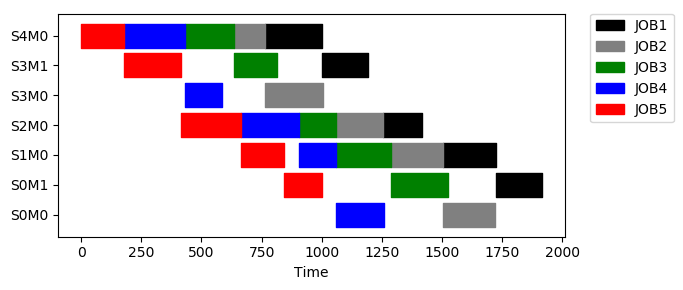
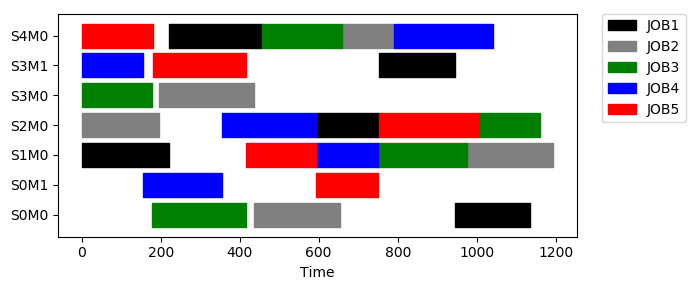
ILS

diff --git a/Cplex Project/hosp.cpp b/Cplex Project/hosp.cpp
@@ -687,7 +687,7 @@ list<HOSP::operacao> HOSP::MIH() {
 	return PI;
 }
 
-double HOSP::BICH_makespan(list<operacao> PI) {
+double HOSP::makespan(list<operacao> PI) {
 	double **M_tempo, *N_tempo;
 	N_tempo = new double[n];
 	M_tempo = new double*[l];
@@ -808,7 +808,7 @@ list<HOSP::operacao> HOSP::BICH() {
 				auxiliar.push_back(elemento);
 			operacao aaa(j, k_min, m_min);
 			auxiliar.push_back(aaa);
-			BICH_VET[j] = BICH_makespan(auxiliar) + BICH_LB(j, k_min, Paux);
+			BICH_VET[j] = makespan(auxiliar) + BICH_LB(j, k_min, Paux);
 
 		}
 
@@ -854,10 +854,10 @@ list<HOSP::operacao> HOSP::BICH() {
 	return PI;
 }
 
-void HOSP::imprimir_resultados_heuristica(double time, double makespan){
+void HOSP::imprimir_resultados_heuristica(double time, double _makespan){
 	ofstream resultados("resultado.txt", fstream::app);
 
-	resultados << "\t" << makespan << "\t" << time;
+	resultados << "\t" << _makespan << "\t" << time;
 
 	resultados.close();
 
@@ -893,6 +893,7 @@ void HOSP::imprimir_gantt_operacao(list<operacao> lista) {
 }
 
 list<HOSP::operacao> HOSP::VETOR_PARA_OPERACAO(int *vetor) {
+
 	list<operacao> retornada;
 	double **M_tempo, *N_tempo;
 	N_tempo = new double[n];
@@ -928,16 +929,217 @@ list<HOSP::operacao> HOSP::VETOR_PARA_OPERACAO(int *vetor) {
 	return retornada;
 }
 
+int * HOSP::OPERACAO_PARA_VETOR(list<operacao> PI) {
+	int *vetor = new int[n*l];
+	int  i = 0;
+	for (auto elemento : PI) {
+		vetor[i] = elemento.job * l + elemento.stage;
+		i++;
+	}
+
+	return vetor;
+}
+
+
 list<HOSP::operacao> HOSP::ILS() {
 	int *SOLUCAO = new int[n*l];
+	int *SOLUCAO1 = new int[n*l];
+	int *SOLUCAO2 = new int[n*l];
+	int *SOLUCAO3 = new int[n*l];
+	int *BEST = new int[n*l];
+	SOLUCAO = OPERACAO_PARA_VETOR(MIH());
 
 	for (int i = 0; i < n*l; i++)
-		SOLUCAO[i] = n*l - i - 1;
+		BEST[i] = SOLUCAO[i];
+	
 
-	list<operacao> teste = VETOR_PARA_OPERACAO(SOLUCAO);
+	double TEMPERATURA = 100;
+	int seed = 1;
+	double melhor = makespan(VETOR_PARA_OPERACAO(SOLUCAO));
+	bool melhorou = true;
+	int iteracao = 1;
+	srand(seed);
+	do
+	{
+		cout <<"ILS - ITERACAO - " << iteracao++ << endl;
+		SOLUCAO1 = OPT2_neighborhood(SOLUCAO);
 
-	imprimir_gantt_operacao(teste);
+		double makespan_neightbor1 = makespan(VETOR_PARA_OPERACAO(SOLUCAO1));
+
+		SOLUCAO2 = INSERT_neighbourhood(SOLUCAO);
+
+		double makespan_neightbor2 = makespan(VETOR_PARA_OPERACAO(SOLUCAO2));
+
+		SOLUCAO3 = INSERT_neighbourhood(SOLUCAO);
+
+		double makespan_neightbor3 = makespan(VETOR_PARA_OPERACAO(SOLUCAO3));
+
+		double makespan_neightbor;
+		if (makespan_neightbor1 < makespan_neightbor2 && makespan_neightbor1 < makespan_neightbor3) {
+			SOLUCAO = SOLUCAO1;
+			makespan_neightbor = makespan_neightbor1;
+		}
+		else {
+			if (makespan_neightbor2 < makespan_neightbor1 &&  makespan_neightbor2 < makespan_neightbor3) {
+				SOLUCAO = SOLUCAO2;
+				makespan_neightbor = makespan_neightbor2;
+			}
+			else
+			{
+				SOLUCAO = SOLUCAO3;
+				makespan_neightbor = makespan_neightbor3;
+			}
+		}
+
+
+		if (makespan_neightbor < melhor || rand() < exp( melhor - makespan_neightbor/TEMPERATURA)) {
+			for (int i = 0; i < n*l; i++)
+				BEST[i] = SOLUCAO[i];
+			melhor = makespan_neightbor;
+			
+		}
+		else
+			melhorou = false;
+		
+		SOLUCAO = PERTUBATE(BEST);
+		TEMPERATURA *= 0.50;
+	} while (melhorou);
+
+
+
+	list<operacao> teste = VETOR_PARA_OPERACAO(BEST);
+
+	//imprimir_gantt_operacao(teste);
 	return teste;
+}
+
+int * HOSP::OPT2(int *solution, int a, int b) {
+
+	int *newsolution = new int[n*l];
+
+	for (int c = 0; c <= a - 1; c++)
+		newsolution[c] = solution[c];
+	int d = 0;
+	for (int c = a; c <= b ; c++) {
+		newsolution[c] = solution[b - d];
+		d++;
+	}
+
+	for (int c = b + 1; c < n*l; c++)
+		newsolution[c] = solution[c];
+
+	return newsolution;
+}
+
+int * HOSP::INSERT_neighbourhood(int *solution) {
+	int *newsolution = new int[n*l];
+	int *BEST = new int[n*l];
+	for (int i = 0; i < n*l; i++)
+		BEST[i] = solution[i];
+
+	double makespan_best = makespan(VETOR_PARA_OPERACAO(BEST));;
+
+	for (int it1 = 0; it1 < n*l - 1; it1++)
+		for (int it2 = it1 + 1; it2 < n*l - 1; it2++) {
+			newsolution = INSERT(solution, it1, it2);
+			double makespan_neighbor = makespan(VETOR_PARA_OPERACAO(newsolution));
+
+			if (makespan_neighbor < makespan_best) {
+				for (int i = 0; i < n*l; i++)
+					BEST[i] = newsolution[i];
+				makespan_best = makespan_neighbor;
+			}
+		}
+
+	return BEST;
+}
+
+int * HOSP::INSERT(int *solution, int a, int b) {
+	int *newsolution = new int[n*l];
+
+	for (int c = 0; c < n*l; c++)
+		newsolution[c] = solution[c];
+
+	newsolution[b] = solution[a];
+
+	for (int c = a; c < b; c++)
+		newsolution[c] = solution[c + 1];
+
+	return newsolution;
+}
+
+
+int * HOSP::SWAP_neighbourhood(int *solution) {
+	int *newsolution = new int[n*l];
+	int *BEST = new int[n*l];
+	for (int i = 0; i < n*l; i++)
+		BEST[i] = solution[i];
+
+	double makespan_best = makespan(VETOR_PARA_OPERACAO(BEST));;
+
+	for (int it1 = 0; it1 < n*l - 1; it1++)
+		for (int it2 = it1 + 1; it2 < n*l - 1; it2++) {
+			newsolution = SWAP(solution, it1, it2);
+			double makespan_neighbor = makespan(VETOR_PARA_OPERACAO(newsolution));
+
+			if (makespan_neighbor < makespan_best) {
+				for (int i = 0; i < n*l; i++)
+					BEST[i] = newsolution[i];
+				makespan_best = makespan_neighbor;
+			}
+		}
+
+	return BEST;
+}
+
+
+int * HOSP::SWAP(int *solution, int a, int b) {
+	int *newsolution = new int[n*l];
+
+	for (int c = 0; c < n*l; c++)
+		newsolution[c] = solution[c];
+
+	newsolution[b] = solution[a];
+	newsolution[a] = solution[b];
+
+
+	return newsolution;
+}
+
+int * HOSP::PERTUBATE(int *solution) {
+	int *PERTURBADO = new int[n*l];
+
+	for (int i = 0; i < n*l; i++)
+		PERTURBADO[i] = n*l - 1 - solution[i];
+
+	return PERTURBADO;
+}
+
+int * HOSP::OPT2_neighborhood(int *solution) {
+
+	int *BEST = new int[n*l];
+	int *NEIGHBOR = new int[n*l];
+
+	for (int i = 0; i < n*l; i++)
+		BEST[i] = solution[i];
+
+	double makespan_best = FLT_MAX;
+
+	for (int it1 = 0; it1 < n*l - 1; it1++)
+		for (int it2 = it1 + 1; it2 < n*l; it2++)
+		{
+			NEIGHBOR = OPT2(solution, it1, it2);
+			double makespan_neighbor = makespan(VETOR_PARA_OPERACAO(NEIGHBOR));
+
+			if (makespan_neighbor < makespan_best) {
+				for (int i = 0; i < n*l; i++)
+					BEST[i] = NEIGHBOR[i];
+				makespan_best = makespan_neighbor;
+			}
+		}
+
+
+	return BEST;
 }
 
 HOSP::~HOSP()

diff --git a/Cplex Project/main.cpp b/Cplex Project/main.cpp
@@ -64,7 +64,7 @@ int main(int argc, char *argv[]) {
 	try {
 		HOSP	Prob(inst);
 		auto comeco = chrono::high_resolution_clock::now();
-		make = Prob.BICH_makespan(Prob.SPT());				//resolver problema
+		make = Prob.makespan(Prob.SPT());				//resolver problema
 		auto fim = chrono::high_resolution_clock::now();
 		chrono::duration<double> elapsed = fim - comeco;
 		time2 = elapsed.count();
@@ -81,7 +81,7 @@ int main(int argc, char *argv[]) {
 	{
 		HOSP	Prob(inst);
 		auto comeco = chrono::high_resolution_clock::now();
-		make = Prob.BICH_makespan(Prob.LPT());                   //resolver problema
+		make = Prob.makespan(Prob.LPT());                   //resolver problema
 		auto fim = chrono::high_resolution_clock::now();
 		chrono::duration<double> elapsed = fim - comeco;
 		time2 = elapsed.count();
@@ -97,7 +97,7 @@ int main(int argc, char *argv[]) {
 	{
 		HOSP	Prob(inst);
 		auto comeco = chrono::high_resolution_clock::now();
-		make = Prob.BICH_makespan(Prob.LTRPOS());                    //resolver problema
+		make = Prob.makespan(Prob.LTRPOS());                    //resolver problema
 		auto fim = chrono::high_resolution_clock::now();
 		chrono::duration<double> elapsed = fim - comeco;
 		time2 = elapsed.count();
@@ -113,7 +113,7 @@ int main(int argc, char *argv[]) {
 	{
 		HOSP	Prob(inst);
 		auto comeco = chrono::high_resolution_clock::now();
-		make = Prob.BICH_makespan(Prob.MIH());                    //resolver problema
+		make = Prob.makespan(Prob.MIH());                    //resolver problema
 		auto fim = chrono::high_resolution_clock::now();
 		chrono::duration<double> elapsed = fim - comeco;
 		time2 = elapsed.count();
@@ -129,7 +129,7 @@ int main(int argc, char *argv[]) {
 	{
 		HOSP	Prob(inst);
 		auto comeco = chrono::high_resolution_clock::now();
-		make = Prob.BICH_makespan(Prob.BICH());                    //resolver problema
+		make = Prob.makespan(Prob.BICH());                    //resolver problema
 		auto fim = chrono::high_resolution_clock::now();
 		chrono::duration<double> elapsed = fim - comeco;
 		time2 = elapsed.count();
@@ -146,7 +146,7 @@ int main(int argc, char *argv[]) {
 	{
 		HOSP	Prob(inst);
 		auto comeco = chrono::high_resolution_clock::now();
-		make = Prob.BICH_makespan(Prob.ILS());                    //resolver problema
+		make = Prob.makespan(Prob.ILS());                    //resolver problema
 		auto fim = chrono::high_resolution_clock::now();
 		chrono::duration<double> elapsed = fim - comeco;
 		time2 = elapsed.count();

diff --git a/Cplex Project/teste.py b/Cplex Project/teste.py
@@ -1,28 +1,28 @@
 inp = u"""S4M0,0,180,JOB4
+S3M1,0,155,JOB3
+S3M0,0,177,JOB2
+S2M0,0,195,JOB1
+S1M0,0,222,JOB0
+S0M1,155,354,JOB3
+S0M0,177,415,JOB2
 S3M1,180,415,JOB4
-S2M0,415,666,JOB4
-S1M0,666,845,JOB4
-S0M1,845,1000,JOB4
-S4M0,180,432,JOB3
-S3M0,432,587,JOB3
-S2M0,666,904,JOB3
-S1M0,904,1060,JOB3
-S0M0,1060,1259,JOB3
-S4M0,432,636,JOB2
-S3M1,636,813,JOB2
-S2M0,904,1059,JOB2
-S1M0,1060,1286,JOB2
-S0M1,1286,1524,JOB2
-S4M0,636,766,JOB1
-S3M0,766,1006,JOB1
-S2M0,1059,1254,JOB1
-S1M0,1286,1503,JOB1
-S0M0,1503,1721,JOB1
-S4M0,766,1000,JOB0
-S3M1,1000,1193,JOB0
-S2M0,1254,1415,JOB0
-S1M0,1503,1725,JOB0
-S0M1,1725,1915,JOB0
+S3M0,195,435,JOB1
+S4M0,222,456,JOB0
+S2M0,354,592,JOB3
+S1M0,415,594,JOB4
+S2M0,592,753,JOB0
+S4M0,456,660,JOB2
+S0M1,594,749,JOB4
+S3M1,753,946,JOB0
+S0M0,435,653,JOB1
+S1M0,594,750,JOB3
+S0M0,946,1136,JOB0
+S4M0,660,790,JOB1
+S1M0,750,976,JOB2
+S4M0,790,1042,JOB3
+S2M0,753,1004,JOB4
+S1M0,976,1193,JOB1
+S2M0,1004,1159,JOB2
 """
 
 import pandas as pd

diff --git a/Cplex Project/hosp.h b/Cplex Project/hosp.h
@@ -84,7 +84,7 @@ public:
 
 	list<operacao> MIH();
 
-	double BICH_makespan(list<operacao> PI);
+	double makespan(list<operacao> PI);
 
 	double BICH_LB(int j, int k, double ** P);
 
@@ -96,7 +96,23 @@ public:
 
 	list<HOSP::operacao> VETOR_PARA_OPERACAO(int * vetor);
 
+	int * OPERACAO_PARA_VETOR(list<operacao>);
+
 	list<HOSP::operacao> ILS();
+
+	int * OPT2(int * newsolution, int a, int b);
+
+	int * INSERT_neighbourhood(int * solution);
+
+	int * INSERT(int * solution, int a, int b);
+
+	int * SWAP_neighbourhood(int * solution);
+
+	int * SWAP(int * solution, int a, int b);
+
+	int * PERTUBATE(int * solution);
+
+	int * OPT2_neighborhood(int * solution);
 
 	~HOSP();
 };
